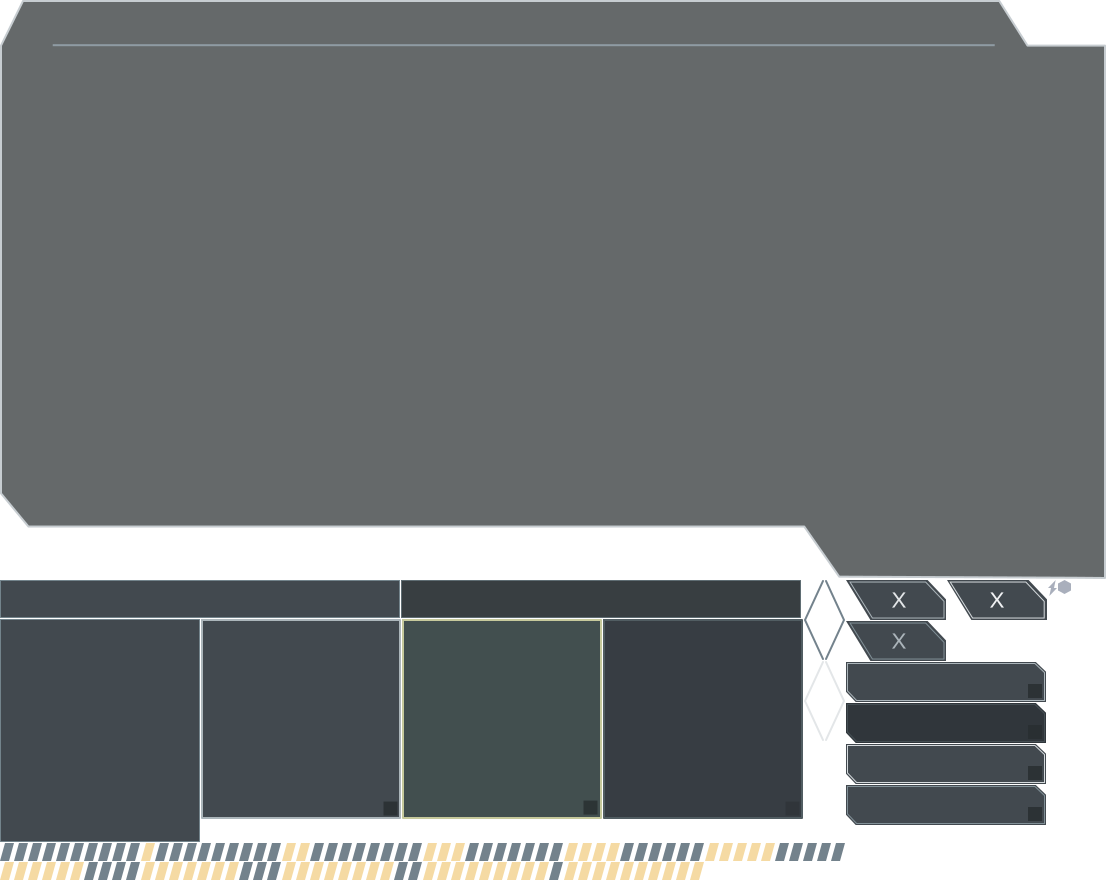
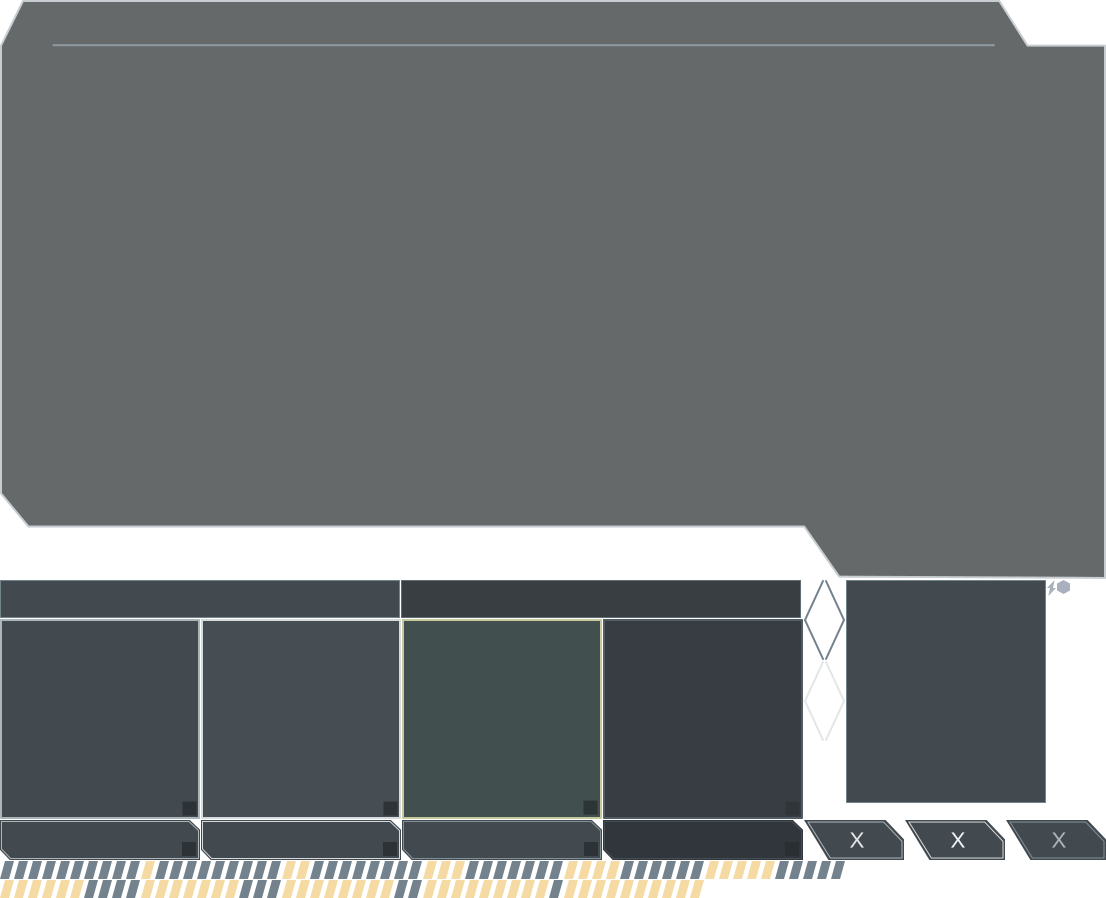
WIP on dialog new element

Changed region(s): [[0.0, 0.6136, 1.0, 0.9818], [0.0, 0.5523, 0.7378, 0.6136], [0.9222, 0.0307, 1.0, 0.0614]]

diff --git a/src/Widgets/DialogNewElement.cpp b/src/Widgets/DialogNewElement.cpp
@@ -4,19 +4,163 @@
 #include "GameObjects/Unit.h"
 #include "GameObjects/UnitData.h"
 #include "Widgets/ButtonCloseDialog.h"
+#include "Widgets/GameButton.h"
 #include "Widgets/GameUIData.h"
+#include "Widgets/ShortcutButton.h"
 
 #include <core/event/KeyboardEvent.h>
 #include <graphic/Camera.h>
 #include <graphic/Font.h>
 #include <graphic/FontManager.h>
+#include <graphic/Image.h>
+#include <graphic/Text.h>
 #include <graphic/TextureManager.h>
+#include <sgui/ButtonsGroup.h>
 #include <sgui/Image.h>
 #include <sgui/Label.h>
 
 namespace game
 {
 
+constexpr int NUM_SLOTS = 5;
+
+// ===== BUTTON CLOSE =====
+
+class ButtonClose : public GameButton
+{
+public:
+    ButtonClose(lib::sgui::Widget * parent)
+        : GameButton(SpriteFileNewElementDialog,
+        {
+            IND_NE_DIALOG_CLOSE_NORMAL,
+            IND_NE_DIALOG_CLOSE_NORMAL,
+            IND_NE_DIALOG_CLOSE_OVER,
+            IND_NE_DIALOG_CLOSE_PUSHED,
+            IND_NE_DIALOG_CLOSE_NORMAL
+        },
+        { 0, 0, 0, 0, 0 },
+        parent)
+    {
+    }
+};
+
+// ===== BUTTON SLOT =====
+
+class ButtonSlot : public ShortcutButton
+{
+public:
+    ButtonSlot(int index)
+        : ShortcutButton(KEYS[index], nullptr)
+        , mBody(new lib::graphic::Image)
+    {
+        using namespace lib::graphic;
+
+        SetCheckable(true);
+
+        auto fm = FontManager::Instance();
+        auto font = fm->GetFont("data/fonts/Lato-Bold.ttf", 11, Font::NORMAL);
+        mShortcut = new Text(SHORTCUTS[index], font, true);
+        mShortcut->SetColor(0xd5daddff);
+
+        RegisterRenderable(mShortcut);
+
+        // set initial visual state
+        SetState(NORMAL);
+    }
+
+private:
+    void SetElements(VisualState state) override
+    {
+        auto tm = lib::graphic::TextureManager::Instance();
+        lib::graphic::Texture * tex = nullptr;
+
+        const unsigned char alphaEn = 255;
+
+        mShortcut->SetAlpha(alphaEn);
+
+        switch(state)
+        {
+            case NORMAL:
+                tex = tm->GetSprite(SpriteFileNewElementDialog, IND_NE_DIALOG_PANEL_NORMAL);
+                mBody->SetTexture(tex);
+            break;
+
+            case MOUSE_OVER:
+                tex = tm->GetSprite(SpriteFileNewElementDialog, IND_NE_DIALOG_PANEL_OVER);
+                mBody->SetTexture(tex);
+            break;
+
+            case PUSHED:
+                tex = tm->GetSprite(SpriteFileNewElementDialog, IND_NE_DIALOG_PANEL_SEL);
+                mBody->SetTexture(tex);
+            break;
+
+            case CHECKED:
+                tex = tm->GetSprite(SpriteFileNewElementDialog, IND_NE_DIALOG_PANEL_SEL);
+                mBody->SetTexture(tex);
+            break;
+
+            // disabled by default
+            default:
+            {
+                tex = tm->GetSprite(SpriteFileNewElementDialog, IND_NE_DIALOG_PANEL_DISABLED);
+                mBody->SetTexture(tex);
+
+                const unsigned char alphaDis = 128;
+                mShortcut->SetAlpha(alphaDis);
+            }
+            break;
+        }
+
+        // reset BG to make changes visible
+        SetCurrBg(mBody);
+    }
+
+    void HandlePositionChanged() override
+    {
+        PushButton::HandlePositionChanged();
+
+        const int x = GetScreenX();
+        const int y = GetScreenY();
+
+        // SHORTCUT
+        const int shortBgX0 = 182;
+        const int shortBgY0 = 182;
+        const int shortBgSize = 14;
+
+        const int shortcutX = x + shortBgX0 + (shortBgSize - mShortcut->GetWidth()) * 0.5f;
+        const int shortcutY = y + shortBgY0 + (shortBgSize - mShortcut->GetHeight()) * 0.5f;
+
+        mShortcut->SetPosition(shortcutX, shortcutY);
+    }
+
+    void OnRender() override
+    {
+        PushButton::OnRender();
+
+        mShortcut->Render();
+    }
+
+private:
+    static const int KEYS[NUM_SLOTS];
+    static const char * SHORTCUTS[NUM_SLOTS];
+
+    lib::graphic::Image * mBody = nullptr;
+    lib::graphic::Text * mShortcut = nullptr;
+};
+
+const int ButtonSlot::KEYS[NUM_SLOTS] = {
+                                            lib::core::KeyboardEvent::KEY_1,
+                                            lib::core::KeyboardEvent::KEY_2,
+                                            lib::core::KeyboardEvent::KEY_3,
+                                            lib::core::KeyboardEvent::KEY_4,
+                                            lib::core::KeyboardEvent::KEY_5,
+                                        };
+
+
+const char * ButtonSlot::SHORTCUTS[NUM_SLOTS] = { "1", "2", "3", "4", "5" };
+
+// ===== DIALOG NEW ELEMENT =====
 DialogNewElement::DialogNewElement(Player * player)
 //    : mPlayer(player)
 {
@@ -29,10 +173,22 @@ DialogNewElement::DialogNewElement(Player * player)
     auto imgBg = new Image(tex, this);
 
     // CLOSE BUTTON
-    const int buttonSide = 20;
+    mButtonClose = new ButtonClose(this);
+    mButtonClose->SetX(imgBg->GetWidth() - mButtonClose->GetWidth());
 
-//    tex = tm->GetSprite(SpriteFileNewUnitDialog, IND_NU_ICON_CLOSE);
-//    mButtonClose = new ButtonCloseDialog(tex, buttonSide, buttonSide, this);
+    // SLOTS
+    mSlots = new ButtonsGroup(ButtonsGroup::HORIZONTAL, this);
+
+    for(int i = 0; i < NUM_SLOTS; ++i)
+    {
+        auto slot = new ButtonSlot(i);
+
+        mSlots->AddButton(slot);
+    }
+
+    const int slotsX0 = 52;
+    const int slotsY0 = 66;
+    mSlots->SetPosition(slotsX0, slotsY0);
 }
 
 DialogNewElement::~DialogNewElement()
@@ -47,7 +203,7 @@ void DialogNewElement::SetFunctionOnBuild(const std::function<void()> & f)
 
 void DialogNewElement::SetFunctionOnClose(const std::function<void()> & f)
 {
-
+    mButtonClose->AddOnClickFunction(f);
 }
 
 void DialogNewElement::HandleKeyUp(lib::core::KeyboardEvent & event)
@@ -55,7 +211,9 @@ void DialogNewElement::HandleKeyUp(lib::core::KeyboardEvent & event)
     // ESC -> close dialog
     if(event.GetKey() == lib::core::KeyboardEvent::KEY_ESC)
     {
+        mButtonClose->Click();
 
+        event.SetConsumed();
     }
 }
 

diff --git a/src/Screens/ScreenGame.cpp b/src/Screens/ScreenGame.cpp
@@ -568,43 +568,43 @@ void ScreenGame::InitSprites()
         // PANELS
         { 0, 580, 400, 38 },
         { 401, 580, 400, 38 },
-        { 0, 619, 200, 223 },
+        { 846, 580, 200, 223 },
+        { 0, 619, 200, 200 },
         { 201, 619, 200, 200 },
         { 402, 619, 200, 200 },
         { 603, 619, 200, 200 },
-
         { 804, 661, 20, 80 },
         { 804, 580, 20, 80 },
         { 825, 661, 20, 80 },
         { 825, 580, 20, 80 },
 
         // ATTRIBUTES BAR
-        { 0, 843, 140, 18 },
-        { 141, 843, 140, 18 },
-        { 282, 843, 140, 18 },
-        { 423, 843, 140, 18 },
-        { 564, 843, 140, 18 },
-        { 705, 843, 140, 18 },
-        { 0, 862, 140, 18 },
-        { 141, 862, 140, 18 },
-        { 282, 862, 140, 18 },
-        { 423, 862, 140, 18 },
-        { 564, 862, 140, 18 },
+        { 0, 861, 140, 18 },
+        { 141, 861, 140, 18 },
+        { 282, 861, 140, 18 },
+        { 423, 861, 140, 18 },
+        { 564, 861, 140, 18 },
+        { 705, 861, 140, 18 },
+        { 0, 880, 140, 18 },
+        { 141, 880, 140, 18 },
+        { 282, 880, 140, 18 },
+        { 423, 880, 140, 18 },
+        { 564, 880, 140, 18 },
 
         // BUTTON CLOSE
-        { 846, 580, 100, 40 },
-        { 947, 580, 100, 40 },
-        { 846, 621, 100, 40 },
+        { 804, 820, 100, 40 },
+        { 905, 820, 100, 40 },
+        { 1006, 820, 100, 40 },
 
         // BUTTON BUILD
-        { 846, 662, 200, 40 },
-        { 846, 703, 200, 40 },
-        { 846, 744, 200, 40 },
-        { 846, 785, 200, 40 },
+        { 0, 820, 200, 40 },
+        { 201, 820, 200, 40 },
+        { 402, 820, 200, 40 },
+        { 603, 820, 200, 40 },
 
         // ICONS
-        { 1048, 580, 9, 16 },
-        { 1058, 580, 13, 14 }
+        { 1047, 580, 9, 16 },
+        { 1057, 580, 13, 14 }
     };
 
     tm->RegisterSprite(SpriteFileNewElementDialog, rectsNewElemDialog);

diff --git a/src/Widgets/ObjectActionButton.cpp b/src/Widgets/ObjectActionButton.cpp
@@ -3,7 +3,6 @@
 #include "Widgets/GameUIData.h"
 
 #include <core/event/KeyboardEvent.h>
-#include <graphic/Camera.h>
 #include <graphic/Font.h>
 #include <graphic/FontManager.h>
 #include <graphic/Image.h>
@@ -27,8 +26,6 @@ ObjectActionButton::ObjectActionButton(ActionIcon icon, const char * shortcut,
 
     RegisterRenderable(mBody);
     RegisterRenderable(mIcon);
-
-    SetCurrBg(mBody);
 
     // -- SET ICON TEXTURE --
     auto tm = TextureManager::Instance();
@@ -75,7 +72,6 @@ void ObjectActionButton::SetElements(VisualState state)
     lib::graphic::Texture * tex = nullptr;
 
     const unsigned char alphaEn = 255;
-    const unsigned char alphaDis = 128;
 
     mIcon->SetAlpha(alphaEn);
     mShortcut->SetAlpha(alphaEn);
@@ -104,10 +100,14 @@ void ObjectActionButton::SetElements(VisualState state)
 
         // disabled by default
         default:
+        {
             tex = tm->GetSprite(SpriteFileObjActionButton, IND_BUTTON_DISABLED);
             mBody->SetTexture(tex);
+
+            const unsigned char alphaDis = 128;
             mIcon->SetAlpha(alphaDis);
             mShortcut->SetAlpha(alphaDis);
+        }
         break;
     }
 
@@ -146,7 +146,7 @@ void ObjectActionButton::HandlePositionChanged()
 
 void ObjectActionButton::OnRender()
 {
-    mBody->Render();
+    PushButton::OnRender();
 
     mIcon->Render();
 

diff --git a/src/Widgets/DialogNewElement.h b/src/Widgets/DialogNewElement.h
@@ -7,12 +7,14 @@
 
 namespace lib
 {
-    namespace sgui { class Image; }
+    namespace sgui { class ButtonsGroup; }
 }
 
 namespace game
 {
 
+class ButtonClose;
+class ButtonSlot;
 class Player;
 
 enum UnitType : unsigned int;
@@ -30,7 +32,9 @@ private:
     void HandleKeyUp(lib::core::KeyboardEvent & event) override;
 
 private:
+    lib::sgui::ButtonsGroup * mSlots = nullptr;
 
+    ButtonClose * mButtonClose = nullptr;
 };
 
 } // namespace game

diff --git a/src/Widgets/GameUIData.h b/src/Widgets/GameUIData.h
@@ -16,6 +16,7 @@ enum SpriteIdNewElementDialog : unsigned int
     IND_NE_DIALOG_STAT_OFF,
     IND_NE_DIALOG_INFO,
     IND_NE_DIALOG_PANEL_NORMAL,
+    IND_NE_DIALOG_PANEL_OVER,
     IND_NE_DIALOG_PANEL_SEL,
     IND_NE_DIALOG_PANEL_DISABLED,
     IND_NE_DIALOG_ARROW_L,
